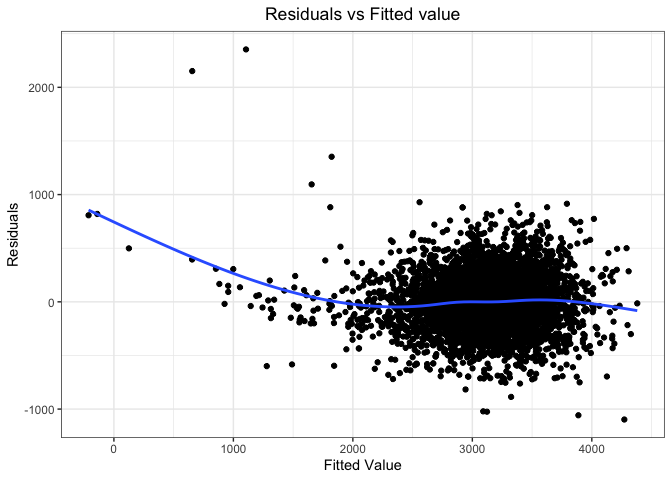
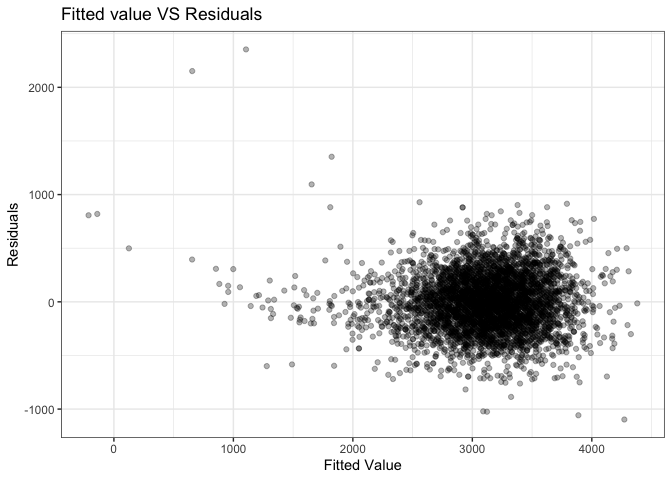
finish question 1

diff --git a/hw6.md b/hw6.md
@@ -163,7 +163,7 @@ best_model = step(lm(bwt~., data = birthweight), direction = "backward")
     ## - blength  1 102191779 423178191 49903
     ## - bhead    1 106779754 427766166 49950
 
-This stepwise function give us the best model using babysex,bhead,blength, delwt,fincome, gaweeks, mheight, mrace, parity, ppwt and smoken as predictors. A brief glance of the 'best model' chosen by R using regression summary. The global p-value shows that it is significant under 0.05 significance level.
+This stepwise function gives us the best model using babysex,bhead,blength, delwt,fincome, gaweeks, mheight, mrace, parity, ppwt and smoken as predictors. A brief glance of the 'best model' chosen by R using regression summary. The global p-value shows that it is significant under 0.05 significance level.
 
 ``` r
 best_model %>% summary()
@@ -205,9 +205,51 @@ best_model %>% summary()
 birthweight %>% 
   modelr::add_predictions(best_model) %>% 
   modelr::add_residuals(best_model) %>% 
-  ggplot(aes(x = pred, y = resid)) + geom_point() + geom_smooth(se = F) + theme_bw() + labs(x = "Fitted Value", y = 'Residuals', title = "Residuals vs Fitted value") + theme(plot.title = element_text(hjust = 0.5))
+  ggplot(aes(x = pred, y = resid)) + geom_point(alpha = 0.3) + theme_bw() + labs(x = "Fitted Value", y = 'Residuals', title = "Fitted value VS Residuals")
 ```
 
-    ## `geom_smooth()` using method = 'gam' and formula 'y ~ s(x, bs = "cs")'
-
 ![](hw6_files/figure-markdown_github/unnamed-chunk-3-1.png)
+
+``` r
+set.seed(1)
+model2 = lm(bwt ~ blength + gaweeks, data = birthweight)
+model3 = lm(bwt ~ bhead + blength + babysex + bhead*blength + bhead*babysex + blength*babysex + bhead*blength*babysex, data = birthweight)
+
+cv_df = 
+  modelr::crossv_mc(birthweight, 100)
+cv_df =
+  cv_df %>% 
+  mutate(
+    train = map(train, as_tibble),
+    test = map(test, as_tibble))
+
+cv_df = 
+  cv_df %>% 
+  mutate(
+  best_model= map(train, ~lm(formula = bwt ~ babysex + bhead + blength + delwt + fincome + gaweeks + mheight + mrace + parity + ppwt + smoken, data =.x)),
+  model2  = map(train, ~lm(bwt ~ blength + gaweeks, data = .x)),
+  model3  = map(train, ~lm(bwt ~ bhead + blength + babysex + bhead*blength + bhead*babysex + blength*babysex + bhead*blength*babysex, data = .x))) %>% 
+  mutate(rmse_best_model = map2_dbl(best_model, test, ~ modelr::rmse(model = .x, data = .y)),
+         rmse_model2 = map2_dbl(model2, test, ~ modelr::rmse(model = .x, data = .y)),
+         rmse_model3 = map2_dbl(model3, test, ~ modelr::rmse(model = .x, data = .y)))
+```
+
+    ## Warning in predict.lm(model, data): prediction from a rank-deficient fit
+    ## may be misleading
+
+    ## Warning in predict.lm(model, data): prediction from a rank-deficient fit
+    ## may be misleading
+
+``` r
+cv_df %>% 
+  select(starts_with("rmse")) %>% 
+  pivot_longer(
+    everything(),
+    names_to = "model", 
+    values_to = "rmse",
+    names_prefix = "rmse_") %>% 
+  mutate(model = fct_inorder(model)) %>% 
+  ggplot(aes(x = model, y = rmse)) + geom_violin()
+```
+
+![](hw6_files/figure-markdown_github/unnamed-chunk-4-1.png) After comparing the violin plot of rmse for the three models, my model using stepwise function has the lowest rmse among three models and thus has least predicted error. It is also reasonable because this model predictor package is automatically chosen by R.
